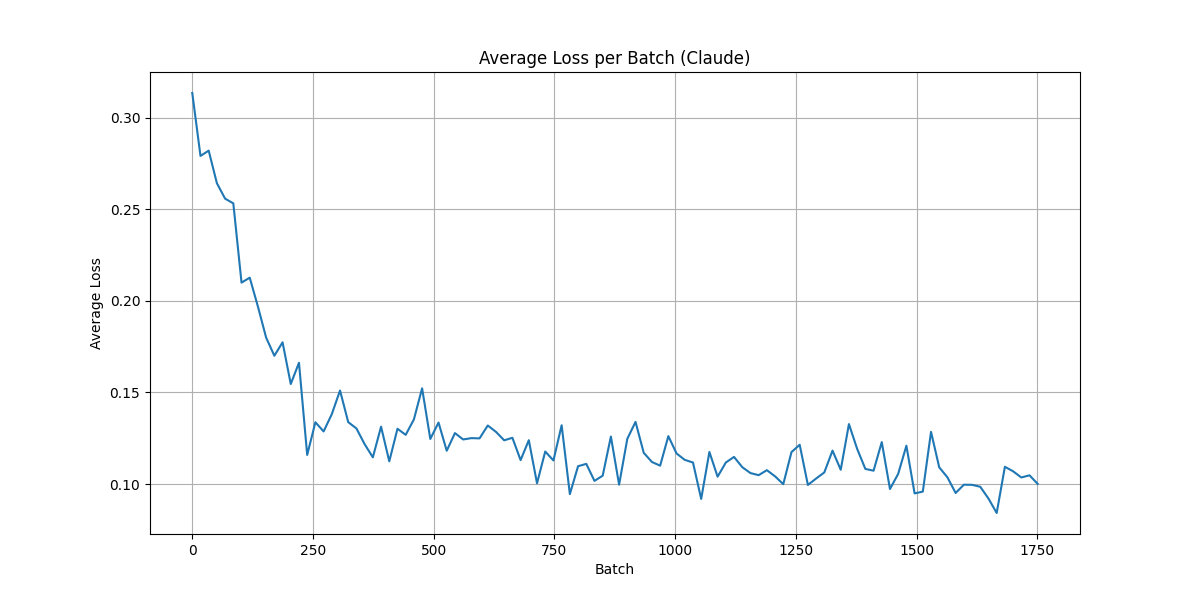
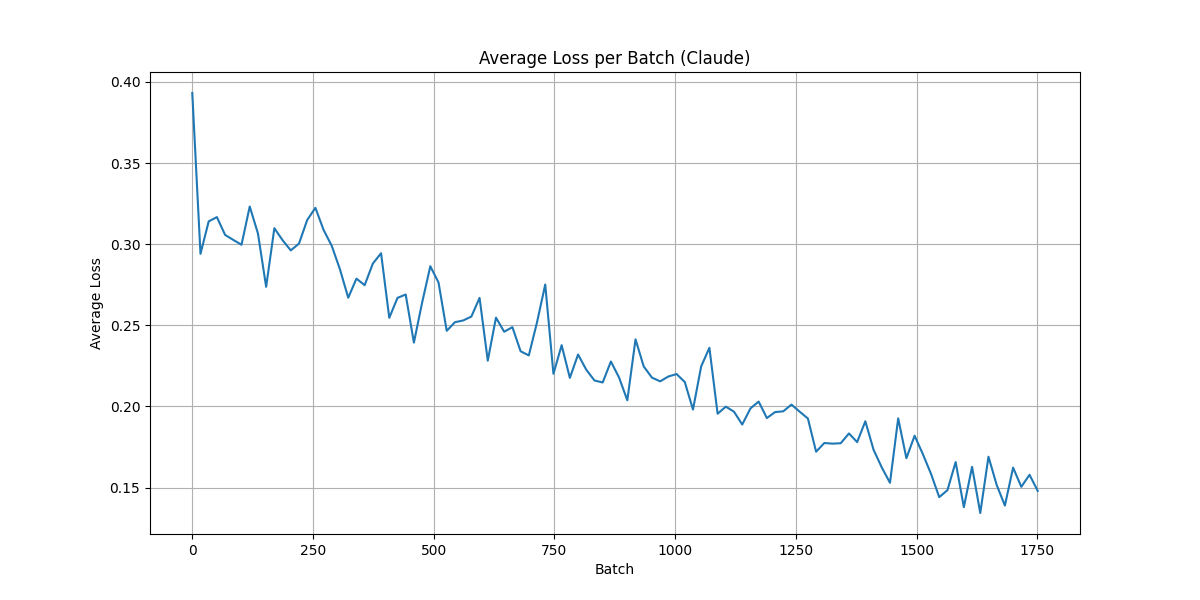
fixed 1e-6 graphs

diff --git a/loss_logs_to_graphs.py b/loss_logs_to_graphs.py
@@ -19,10 +19,10 @@ def plot_loss(batches, losses, title, filename):
     plt.close()
 
 def loss_to_graph(lr):
-    with open('logs/trained_on_llama_data.log', 'r') as file:
+    with open(f'logs/trained_on_llama_data_{lr}.log', 'r') as file:
         llama_log_content = file.read()
 
-    with open('logs/trained_on_claude_data.log', 'r') as file:
+    with open(f'logs/trained_on_claude_data_{lr}.log', 'r') as file:
         claude_log_content = file.read()
 
     llama_batches, llama_losses = parse_log(llama_log_content)
